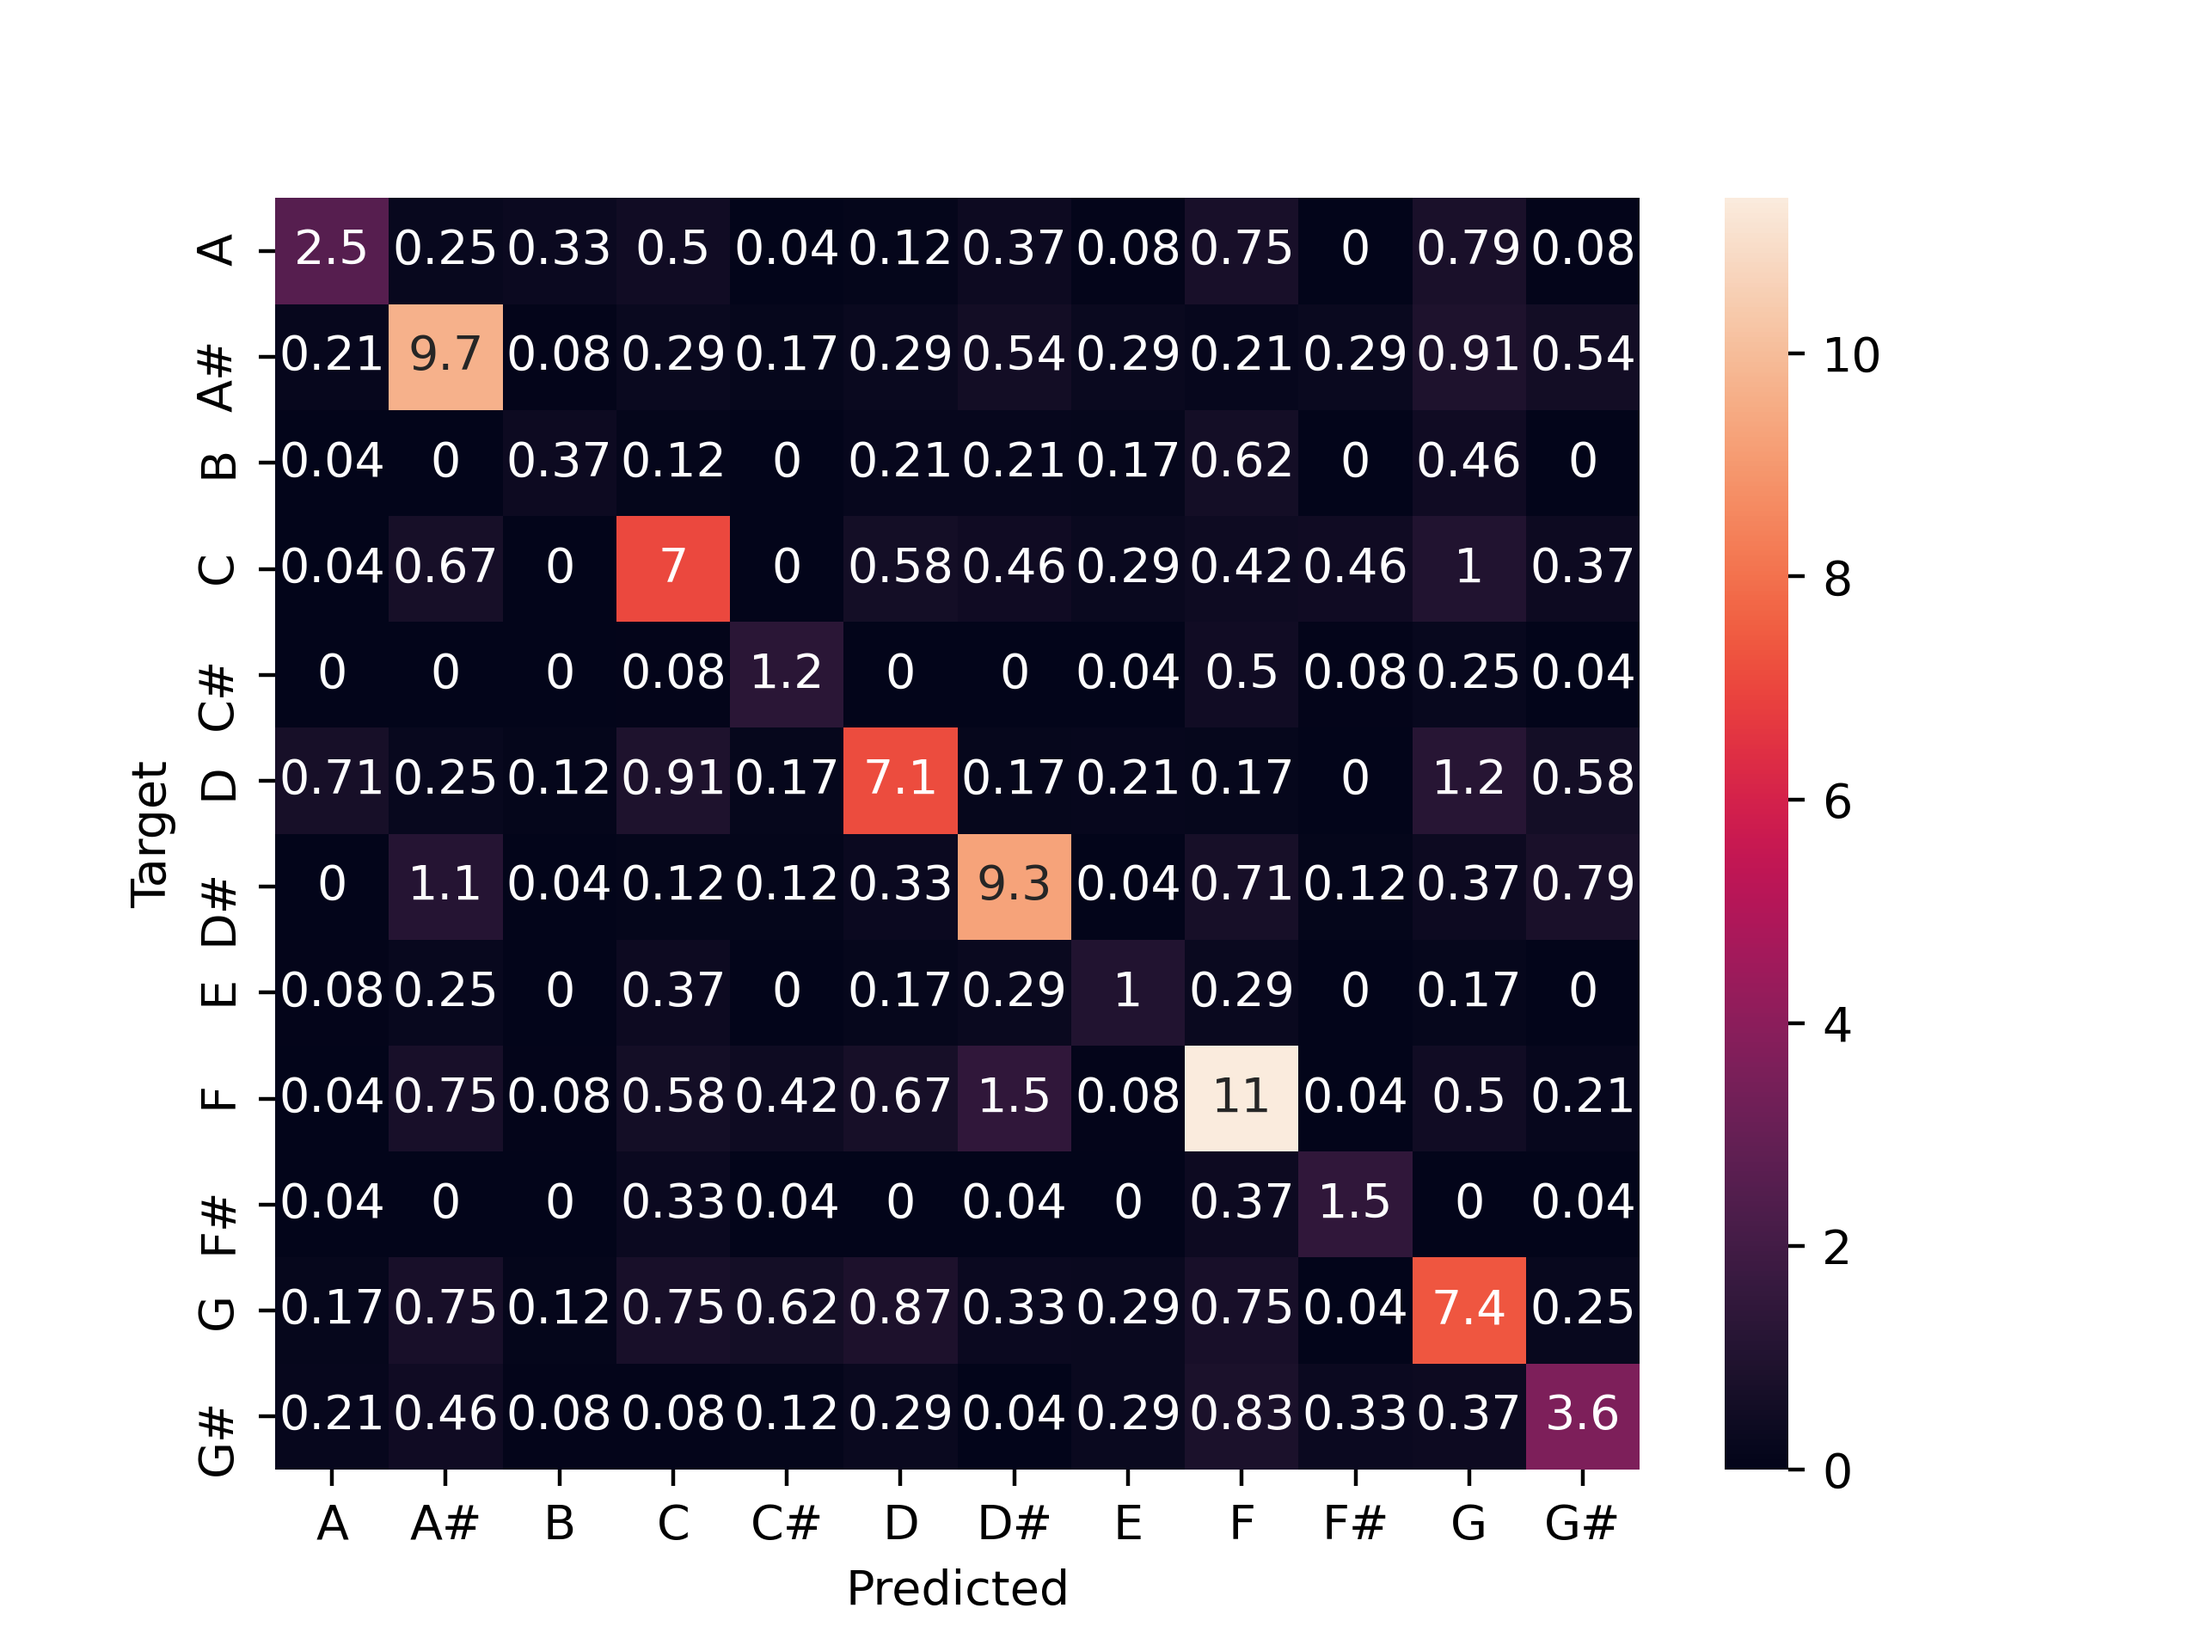
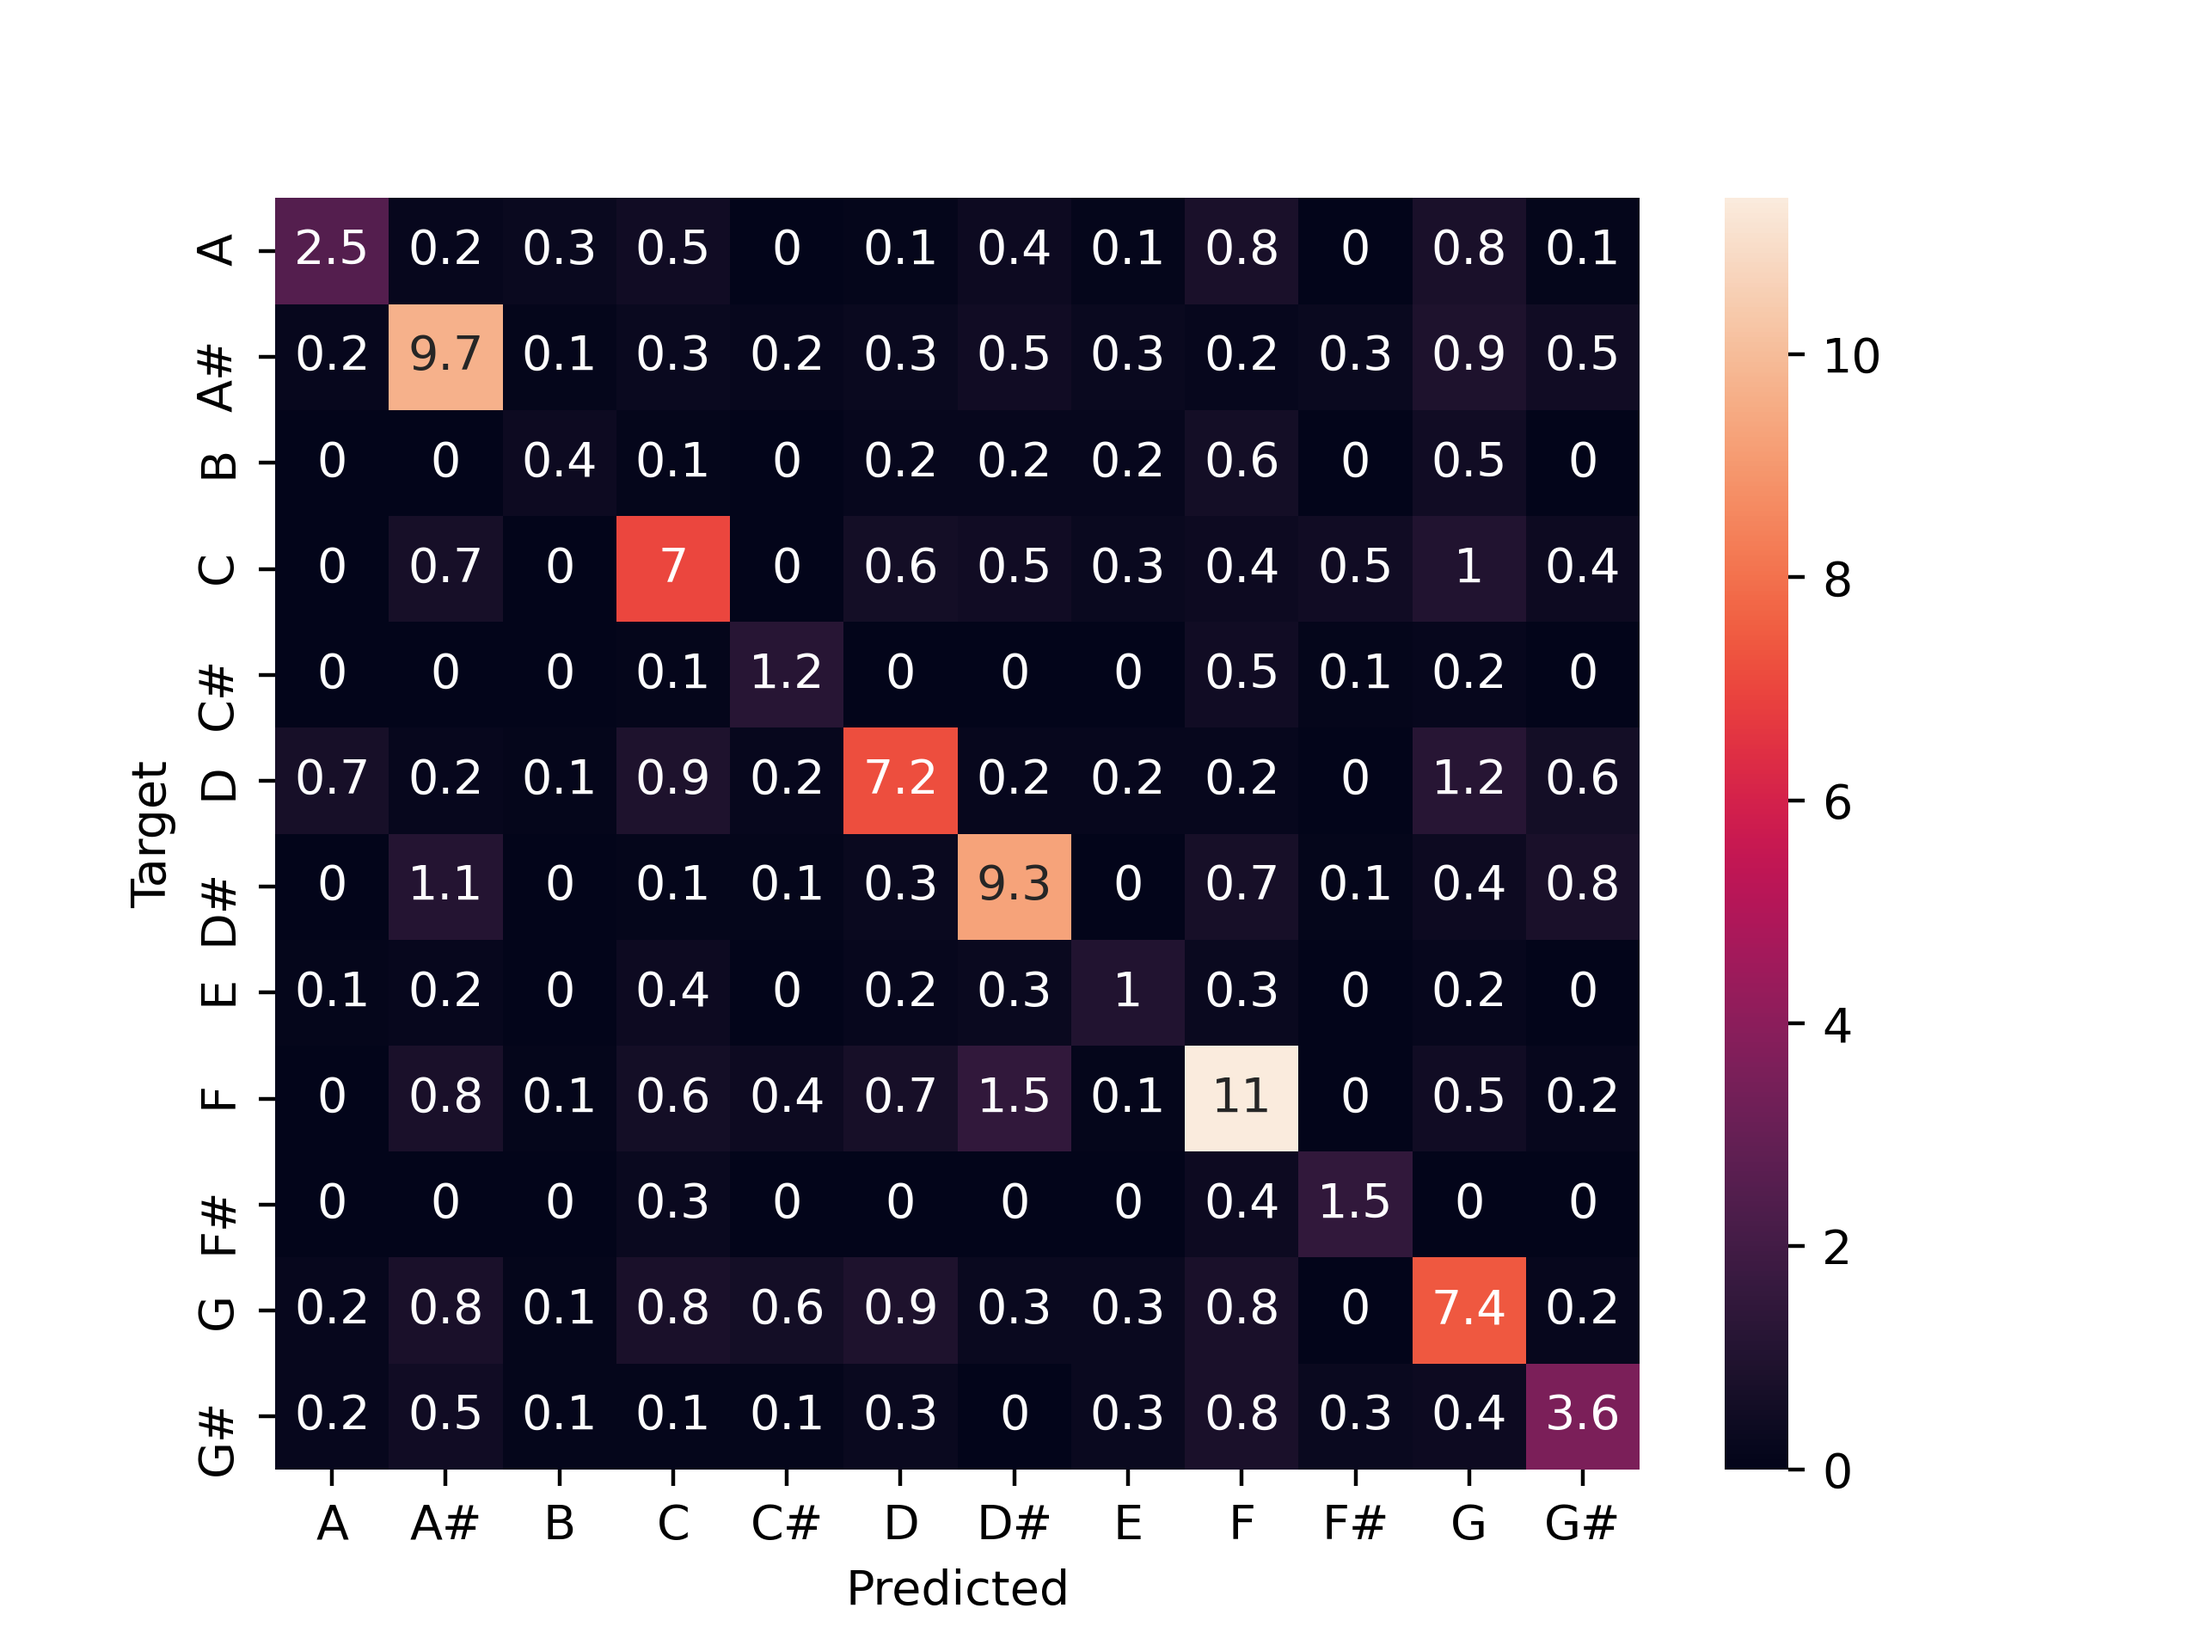
row norm

diff --git a/qualitative_analysis.py b/qualitative_analysis.py
@@ -217,8 +217,6 @@ def root_pitch(result_table, root_type, chord_type, mod_type):
     # df.loc[(df['Correct'] == 0) & (df['p_root'] == df['t_root']), 'p_root'] = 'wrong extra'
     return result_table
 
-''' TRIAD VECTOR '''
-
 def triad_vector(df, var, mod_vector, chord_info_name, triad_var, triad_var_corr, t_root, p_root ):
     mods_to_keep = ['#', 'b']
     df.loc[ ~df[mod_vector].isin(mods_to_keep), chord_info_name] = df[var].str.slice(start = 1)
@@ -239,9 +237,6 @@ def triad_vector(df, var, mod_vector, chord_info_name, triad_var, triad_var_corr
     df.loc[ df[t_root] != df[p_root] , triad_var_corr] = 'wrong_root'
 
     return df
-
-
-''' ADDED NOTE VECTOR '''
 
 def added_note_vector(df, var, added_note_var, added_note_var_cor,t_root, p_root ):   
     df[added_note_var] = df[var]
@@ -264,8 +259,6 @@ def added_note_vector(df, var, added_note_var, added_note_var_cor,t_root, p_root
     
     return df
 
-
-
 def separating_vectors_acc(df):
     result_table = df
     result_table = root_pitch(result_table, 't_root', 'Target_Chords', 't_mod')
@@ -282,8 +275,12 @@ def separating_vectors_acc(df):
     
 #%% Creating confusion matrices
 
-def create_save_matrix(df, var1, var2, plot_name, model_name, title=None, show=True):
-    matrix = pd.crosstab(df[var1], df[var2], rownames=['Target'], colnames=['Predicted'], normalize='all').round(4)*100
+def create_save_matrix(df, var1, var2, plot_name, model_name, title=None, show=True, norm='all'):
+    matrix = pd.crosstab(df[var1], df[var2], rownames=['Target'], colnames=['Predicted'], normalize=norm).round(4)*100
+    if norm == 'index':
+        matrix = matrix.round(0).astype(int)
+    else:
+         matrix = matrix.round(1)
     matrix_fig = sn.heatmap(matrix, annot=True)
     plt.title(title)
     if show:
@@ -325,8 +322,8 @@ def song_analysis(df, song_id, model_name, model_name_mel):
     result_song = root_pitch(result_song, 't_root', 'Target_Chords', 't_mod')
     result_song = root_pitch(result_song,'p_root', 'Pred_Chords', 'p_mod')
     result_song = root_pitch(result_song,'p_root_mel', 'Pred_Chords_mel', 'p_mod_mel')
-    create_save_matrix(result_song, 't_root', 'Pred_Root',  str(song_id) + '_roots_crossmatrix.png', model_name, title=None, show=True)
-    create_save_matrix(result_song, 't_root', 'Pred_Root_mel', str(song_id) +'_roots_crossmatrix.png', model_name_mel, title=None, show=True)
+    create_save_matrix(result_song, 't_root', 'Pred_Root',  str(song_id) + '_roots_crossmatrix.png', model_name, title=None, show=True, norm='index') #  norm='index' makes the normalization by rows. Delete if normalization by entire matrix is wanted
+    create_save_matrix(result_song, 't_root', 'Pred_Root_mel', str(song_id) +'_roots_crossmatrix.png', model_name_mel, title=None, show=True, norm='index')
     create_save_matrix(result_song, 'triad_T', 'Pred_triad_form',  str(song_id) + '_triadform_crossmatrix.png', model_name, title=None, show=True)
     create_save_matrix(result_song, 'triad_T', 'Pred_triad_form_mel', str(song_id) + '_triadform_crossmatrix.png', model_name_mel, title=None, show=True)
     create_save_matrix(result_song, 'added_note_T', 'Pred_added_note',  str(song_id) + '_addednote_crossmatrix.png', model_name, title=None, show=True)
@@ -391,7 +388,6 @@ result_table_all = result_table_all.rename(columns = {'Pred_Chords_x' : 'Pred_Ch
                                                       'added_note_P_corr_x' : 'Pred_added_note',
                                                       'added_note_P_corr_y' : 'Pred_added_note_mel'  })
 
-pdb.set_trace()
 if do_conf_matrix_all_songs:
     for i in result_table['Test_sample_ID'].unique():
         song_df = root_pitch(result_table[result_table['Test_sample_ID'] == i])
@@ -419,10 +415,10 @@ target_seq_accuracy_mel = target_seq_accuracy(result_table_mel)
 
 #result_song = song_analysis(result_table_all, 197, model_name, model_name_mel)
 
-
+pdb.set_trace()
 #%%
-create_save_matrix(result_table_all, 't_root', 'Pred_Root',  '_roots_crossmatrix.png', model_name, title=None, show=True)
-create_save_matrix(result_table_all, 't_root', 'Pred_Root_mel',  '_roots_crossmatrix.png', model_name_mel, title=None, show=True)
+create_save_matrix(result_table_all, 't_root', 'Pred_Root',  '_roots_crossmatrix.png', model_name, title=None, show=True, norm='index')  #  norm='index' makes the normalization by rows. Delete if normalization by entire matrix is wanted
+create_save_matrix(result_table_all, 't_root', 'Pred_Root_mel',  '_roots_crossmatrix.png', model_name_mel, title=None, show=True, norm='index')
 
 create_save_matrix(result_table_all, 'triad_T', 'Pred_triad_form',  '_triad_form_crossmatrix.png', model_name, title=None, show=True)
 create_save_matrix(result_table_all, 'triad_T', 'Pred_triad_form_mel',  '_triad_form_crossmatrix.png', model_name_mel, title=None, show=True)
@@ -445,7 +441,7 @@ create_save_matrix(result_table_all, 'added_note_T', 'Pred_added_note_mel',  '_a
 
 pio.renderers.default='browser'
 
-
+'''
 fig2 = px.scatter(result_table, x="Song_Length", y='Song_Accuracy')
 fig3 = px.scatter(Acc_chord_idx, x="Chord_idx", y='Chord_Accuracy', size = 'Sample_Size')
 fig4 = px.scatter(F_score, x = 'Target_Chords', y = 'f_score', size="Sample_Size_x", hover_name="Target_Chords", size_max=60)
@@ -460,3 +456,4 @@ fig4.show()
 fig5.show()
 fig6.show()
 fig7.show()
+'''
